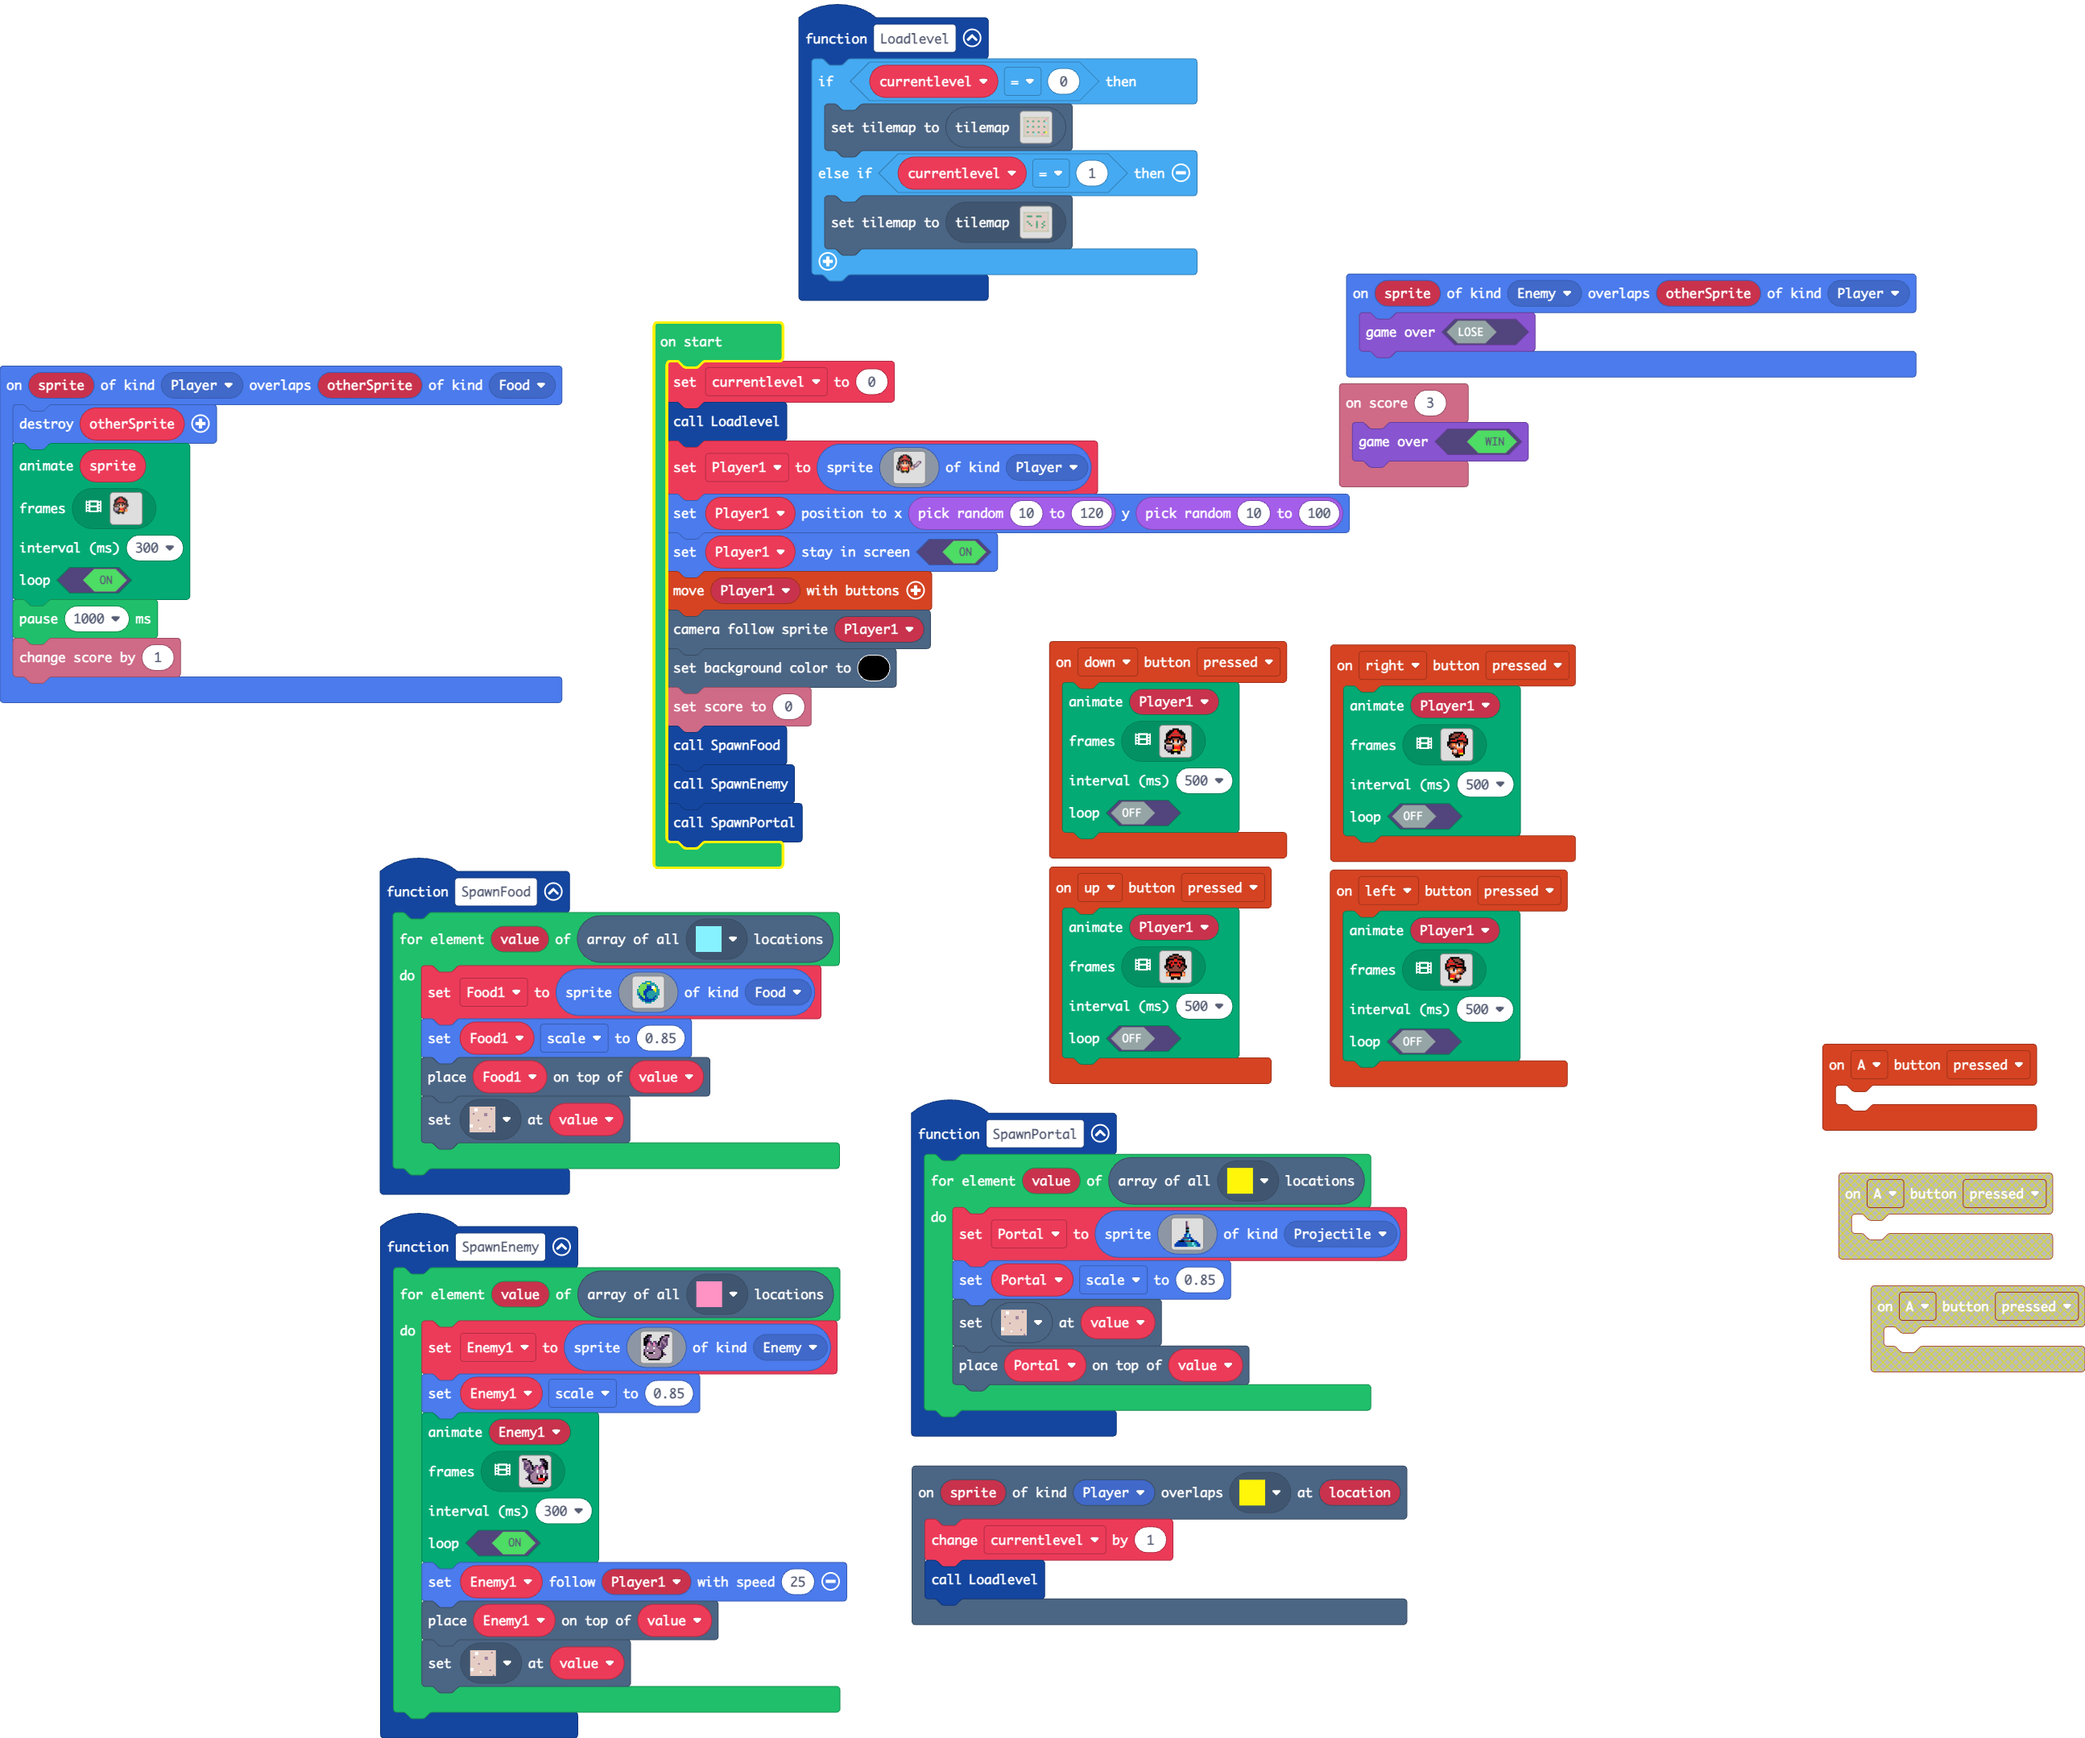
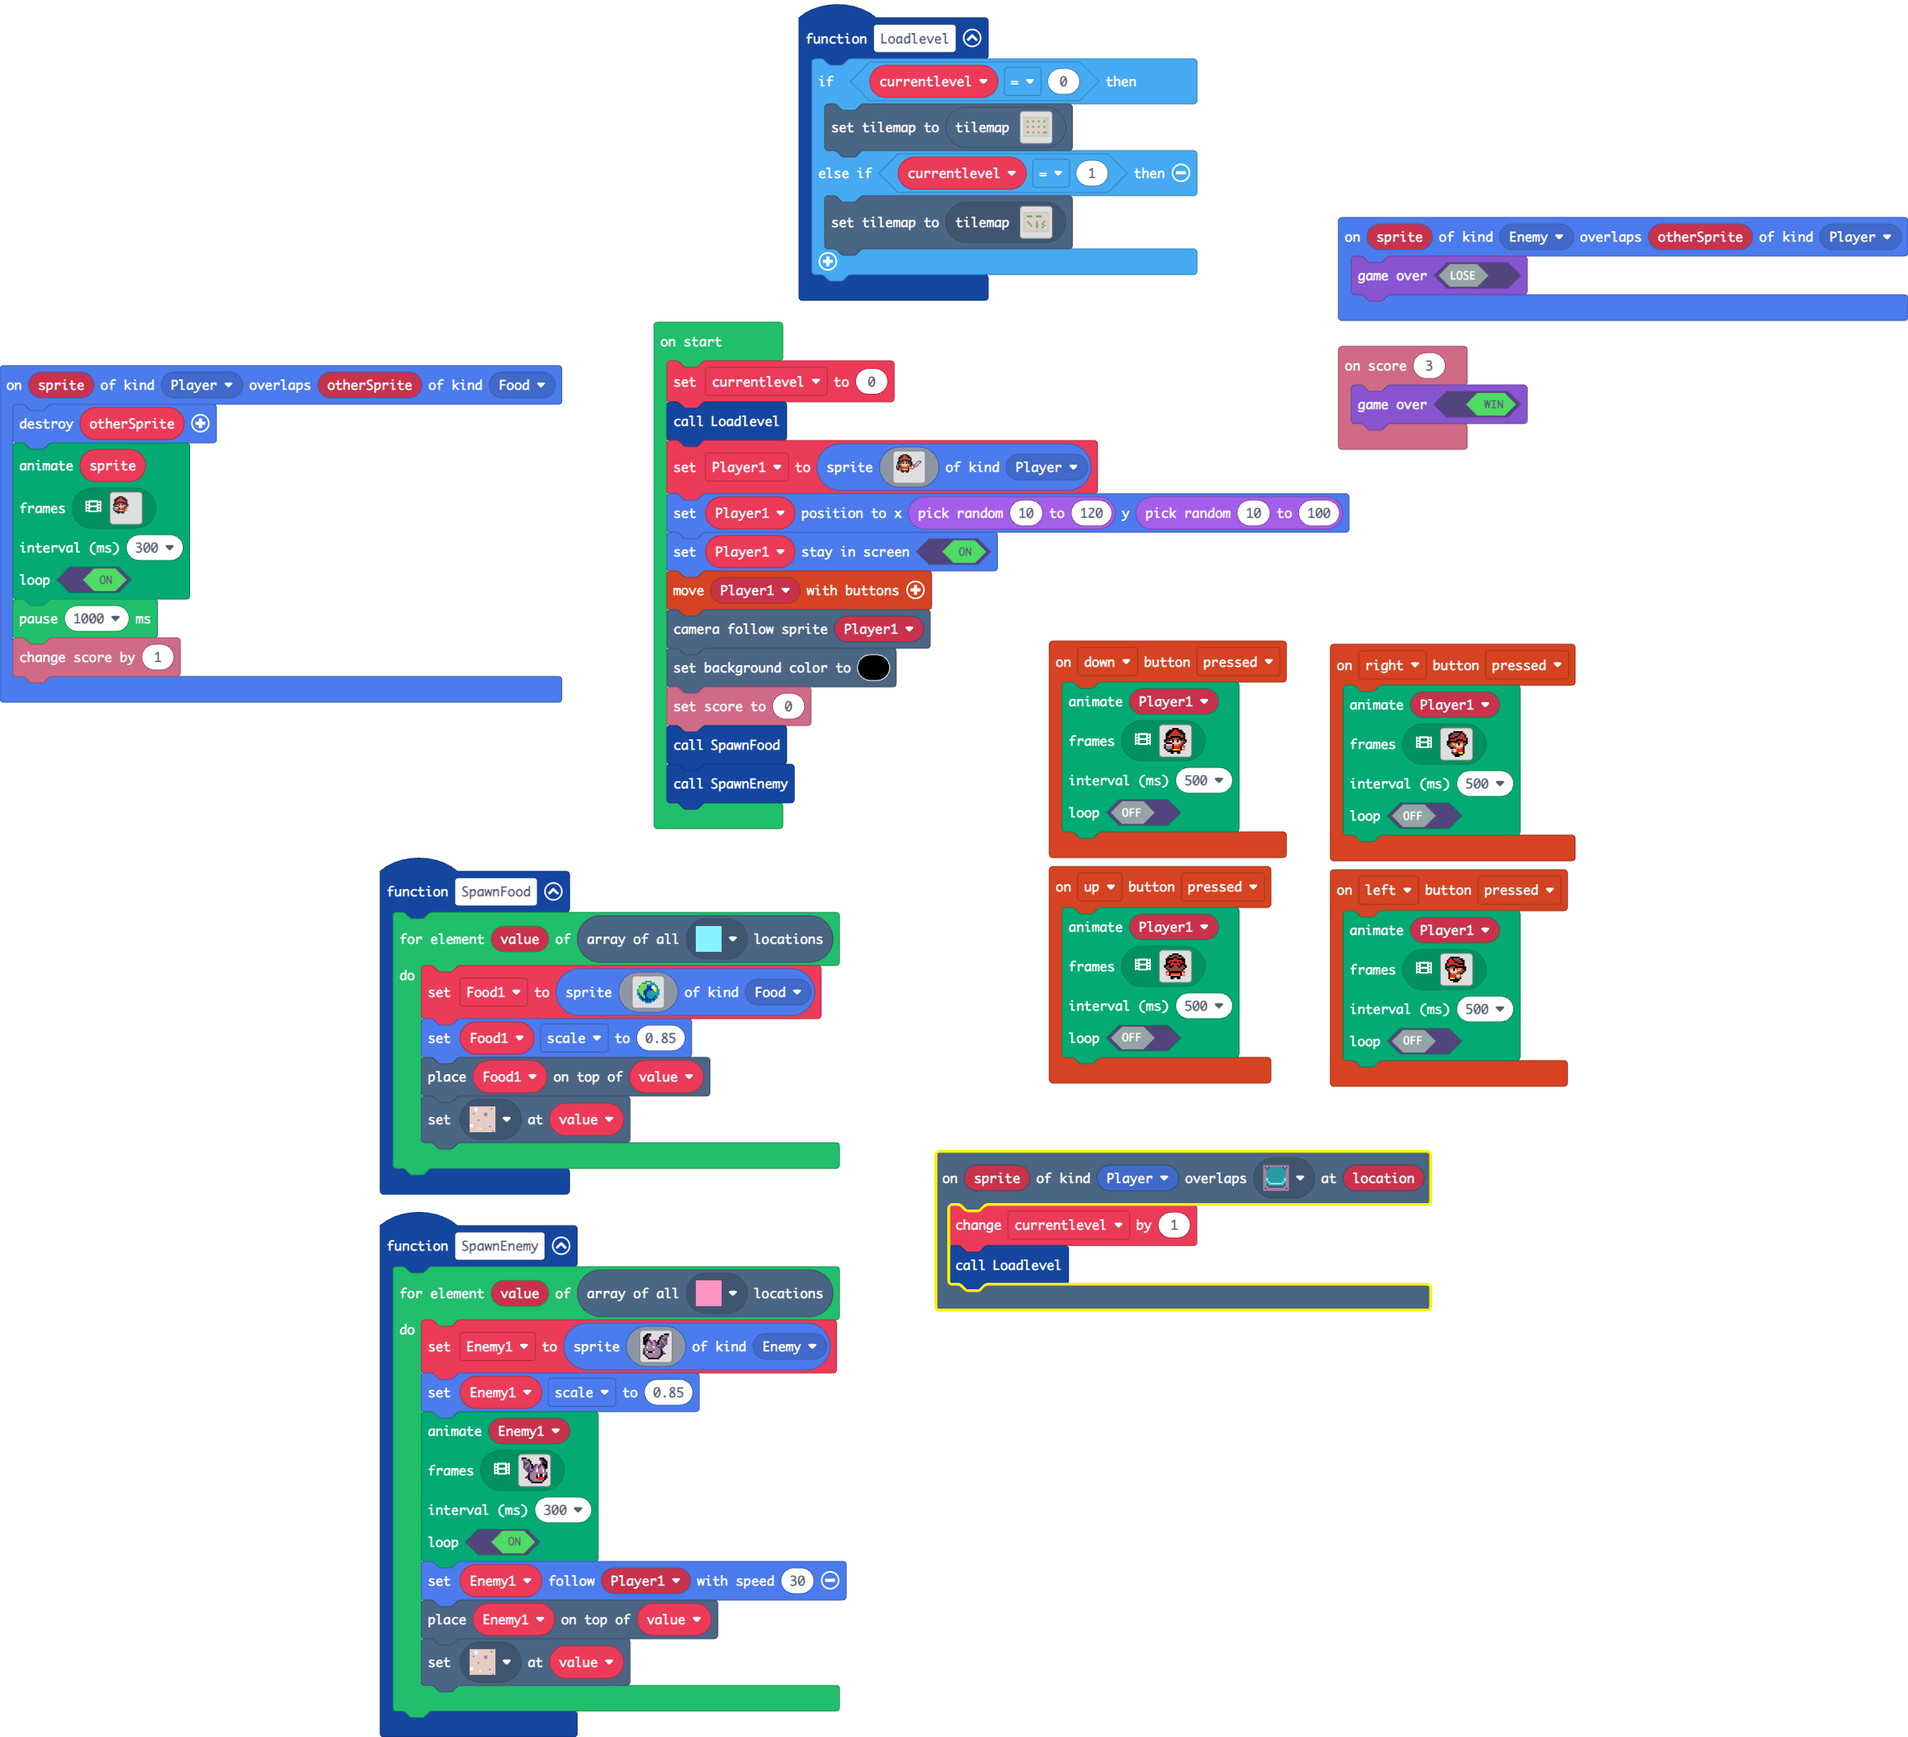
Update pxt.json, main.blocks, main.ts, tilemap.g.jres, tilemap.g.ts

Changed region(s): [[0.0, 0.0, 1.0, 1.0], [0.8746, 0.5902, 1.0, 0.8076], [0.4061, 0.9629, 0.4373, 0.994]]

diff --git a/main.ts b/main.ts
@@ -1,32 +1,3 @@
-function SpawnPortal () {
-    for (let value of tiles.getTilesByType(assets.tile`myTile1`)) {
-        Portal = sprites.create(img`
-            . . . . . . . c d . . . . . . . 
-            . . . . . . . c d . . . . . . . 
-            . . . . . . . c d . . . . . . . 
-            . . . . . . . c b . . . . . . . 
-            . . . . . . . f f . . . . . . . 
-            . . . . . . . c 6 . . . . . . . 
-            . . . . . . . f f . . . . . . . 
-            . . . . . . . 8 6 . . . . . . . 
-            . . . . . . 8 8 9 8 . . . . . . 
-            . . . . . . 8 6 9 8 . . . . . . 
-            . . . . . c c c 8 8 8 . . . . . 
-            . . . . 8 8 6 6 6 9 8 8 . . . . 
-            . . 8 f f f c c e e f f 8 8 . . 
-            . 8 8 8 8 8 8 6 6 6 6 9 6 8 8 . 
-            8 8 8 8 8 8 8 8 6 6 6 9 6 6 8 8 
-            8 8 8 8 8 8 8 8 6 6 6 6 9 6 8 8 
-            `, SpriteKind.Projectile)
-        Portal.scale = 0.85
-        tiles.setTileAt(value, sprites.castle.tilePath5)
-        tiles.placeOnTile(Portal, value)
-    }
-}
-scene.onOverlapTile(SpriteKind.Player, assets.tile`myTile1`, function (sprite, location) {
-    currentlevel += 1
-    Loadlevel()
-})
 controller.up.onEvent(ControllerButtonEvent.Pressed, function () {
     animation.runImageAnimation(
     Player1,
@@ -198,7 +169,7 @@ function SpawnEnemy () {
         300,
         true
         )
-        Enemy1.follow(Player1, 25)
+        Enemy1.follow(Player1, 30)
         tiles.placeOnTile(Enemy1, value)
         tiles.setTileAt(value, sprites.castle.tilePath5)
     }
@@ -210,8 +181,9 @@ function Loadlevel () {
         tiles.setCurrentTilemap(tilemap`level7`)
     }
 }
-controller.A.onEvent(ControllerButtonEvent.Pressed, function () {
-	
+scene.onOverlapTile(SpriteKind.Player, assets.tile`myTile4`, function (sprite, location) {
+    currentlevel += 1
+    Loadlevel()
 })
 function SpawnFood () {
     for (let value of tiles.getTilesByType(assets.tile`myTile0`)) {
@@ -585,7 +557,6 @@ sprites.onOverlap(SpriteKind.Player, SpriteKind.Food, function (sprite, otherSpr
 })
 let Food1: Sprite = null
 let Enemy1: Sprite = null
-let Portal: Sprite = null
 let Player1: Sprite = null
 let currentlevel = 0
 currentlevel = 0
@@ -624,4 +595,3 @@ scene.setBackgroundColor(15)
 info.setScore(0)
 SpawnFood()
 SpawnEnemy()
-SpawnPortal()

diff --git a/tilemap.g.ts b/tilemap.g.ts
@@ -8,6 +8,12 @@ namespace myTiles {
     export const tile2 = image.ofBuffer(hex``);
     //% fixedInstance jres blockIdentity=images._tile
     export const tile3 = image.ofBuffer(hex``);
+    //% fixedInstance jres blockIdentity=images._tile
+    export const tile4 = image.ofBuffer(hex``);
+    //% fixedInstance jres blockIdentity=images._tile
+    export const tile5 = image.ofBuffer(hex``);
+    //% fixedInstance jres blockIdentity=images._tile
+    export const tile6 = image.ofBuffer(hex``);
 
     helpers._registerFactory("tilemap", function(name: string) {
         switch(helpers.stringTrim(name)) {
@@ -532,7 +538,7 @@ namespace myTiles {
 . . 2 . . 2 . . 2 . . 2 . . 
 . . . . . . . . . . . . . . 
 . . . . . . . . . . . . . . 
-`, [myTiles.transparency16,sprites.castle.tilePath1,sprites.castle.tilePath5,sprites.castle.tilePath4,sprites.castle.tilePath2,sprites.builtin.forestTiles0,sprites.castle.tilePath8,sprites.castle.tilePath6,myTiles.tile1,sprites.castle.tilePath7,sprites.castle.tilePath9,sprites.castle.tilePath3,myTiles.tile2,myTiles.tile3], TileScale.Sixteen);
+`, [myTiles.transparency16,sprites.castle.tilePath1,sprites.castle.tilePath5,sprites.castle.tilePath4,sprites.castle.tilePath2,sprites.builtin.forestTiles0,sprites.castle.tilePath8,sprites.castle.tilePath6,myTiles.tile1,sprites.castle.tilePath7,sprites.castle.tilePath9,sprites.castle.tilePath3,myTiles.tile2,myTiles.tile6], TileScale.Sixteen);
         }
         return null;
     })
@@ -546,6 +552,12 @@ namespace myTiles {
             case "tile2":return tile2;
             case "myTile1":
             case "tile3":return tile3;
+            case "myTile2":
+            case "tile4":return tile4;
+            case "myTile3":
+            case "tile5":return tile5;
+            case "myTile4":
+            case "tile6":return tile6;
         }
         return null;
     })
